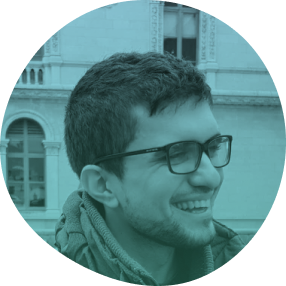
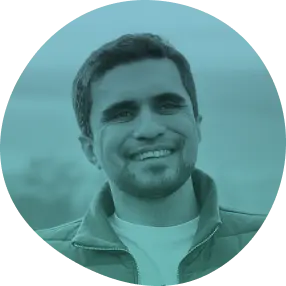
docs(nxdev): add 2022 nxconf speaker list

diff --git a/nx-dev/ui-conference/src/lib/conf-speakers.tsx b/nx-dev/ui-conference/src/lib/conf-speakers.tsx
@@ -18,17 +18,24 @@ export function ConfSpeakers(): JSX.Element {
     },
     {
       description:
-        "Colum Ferry is a Senior Software Engineer at Nrwl, working on the Angular Plugin for Nx. He's interested in architectural patterns with Angular and, more particularly, in achieving a Micro Frontend Architecture with Angular. Colum is a married father of two rambunctious kids and he's lately turned into a huge Formula 1 fan!",
-      imageUrl: '/images/conf/colum-ferry.webp',
-      name: 'Colum Ferry',
-      twitter: 'FerryColum',
+        'Lara is a Software Engineering technical Leader on the Customer Experience Angular team at Cisco. Most of Lara’s career has been spent working in the full stack as a Software Consultant and she enjoys sharing the knowledge and experience she has gained with others through talks, blogs, or pairing with teammates. When she is not coding or teaching, Lara enjoys trail running, fostering rescue kittens, and traveling with her family.',
+      imageUrl: '/images/conf/lara-newsom.webp',
+      name: 'Lara Newsom',
+      twitter: 'LaraNerdsom',
     },
     {
       description:
-        "Juri Strumpflohner lives in the very northern part of Italy and is currently working as a JavaScript Architect and Engineering Manager at Nrwl, where he consults for some of the world's biggest companies around the globe. Juri is a Google Developer Expert in Web Technologies & Angular, speaks at international conferences, teaches on Egghead.io. He's also a core member of Nx.",
-      imageUrl: '/images/conf/juri-strumpflohner.webp',
-      name: 'Juri Strumpflohner',
-      twitter: 'juristr',
+        'Santosh works as a Senior Software Engineer at Celonis and is a GDE for Angular, GitHub Star, and an Auth0 Ambassador, he loves contributing to Angular and its eco-system. He is co-founder of This is Learning. He is also the author of the Ngx-Builders package and part of NestJsAddOns core Team. He is also running This is Tech Talks talk show, where he invites industry experts to discuss different technologies.',
+      imageUrl: '/images/conf/santosh-yadav.webp',
+      name: 'Santosh Yadav',
+      twitter: 'SantoshYadavDev',
+    },
+    {
+      description:
+        'Jordan is a Developer Experience Engineer at Cypress. He is passionate about writing "good code" that is easy to read, test and maintain over time. He has over a decade of experience in software development, marketing, design, and video production. Jordan also serves as the CEO & Co-Founder for the non-profit Dream On: Global. When he is not working, he spends his time as a husband, father and Cleveland sports fan.',
+      imageUrl: '/images/conf/jordan-powell.webp',
+      name: 'Jordan Powell',
+      twitter: 'JordanPowell88',
     },
     {
       description:
@@ -38,39 +45,35 @@ export function ConfSpeakers(): JSX.Element {
       twitter: 'bencabanes',
     },
     {
-      description:
-        'Philip Fulcher is a senior engineer with Nrwl and an Nx core team member. He works with Fortune 500 clients to modernize their development practices with a monorepo approach. Philip lives in Colorado with his wife (who is much smarter than him) and two great kids.',
-      imageUrl: '/images/conf/philip-fulcher.webp',
-      name: 'Philip Fulcher',
-      twitter: 'PhilipJFulcher',
+      description: 'TBD',
+      imageUrl: '/images/conf/jack-hsu.webp',
+      name: 'Jack Hsu',
+      twitter: 'jay_soo',
+    },
+    {
+      description: 'TBD',
+      imageUrl: '/images/conf/altan-stalker.webp',
+      name: 'Altan Stalker',
+      twitter: 'altan',
+    },
+    {
+      description: 'TBD',
+      imageUrl: '/images/conf/jonathan-cammisuli.webp',
+      name: 'Jonathan Cammisuli',
+      twitter: 'jcammisuli',
     },
     {
       description:
-        'Jo Hanna is a senior software engineer, problem-solver and science groupie. She has a firm belief that people are always the most interesting component of any system, and a fascination with how we learn and why we often tend to guard too closely the information we acquire.',
-      imageUrl: '/images/conf/jo-hanna-pearce.webp',
-      name: 'Jo Hanna Pearce',
-      twitter: 'jhannapearce',
+        'Software engineer at Ionic working on the Cloud Team. Maintainer of the Ionic and Capacitor Nx plugins.',
+      imageUrl: '/images/conf/devin-shoemaker.webp',
+      name: 'Devin Shoemaker',
+      twitter: 'paranoidcoder',
     },
     {
-      description:
-        'Craigory is an engineer with Nrwl on the Nx core team. Before joining Nrwl, Craigory created the nx-dotnet plugin to integrate C# and .NET into Nx in monorepos alongside front end code.',
-      imageUrl: '/images/conf/craigory-coppola.webp',
-      name: 'Craigory Coppola',
-      twitter: 'enderagent',
-    },
-    {
-      description:
-        'Jason is an architect at Nrwl and a part of the Nx Core Team. He works with Fortune 500 companies across different industries to enable them to develop like Google, Microsoft, and Facebook. Jason is also an enthusiast of board games and mechanical keyboards.',
-      imageUrl: '/images/conf/jason-jeans.webp',
-      name: 'Jason Jean',
-      twitter: 'frozenpandaz',
-    },
-    {
-      description:
-        'Miro is an engineer at Nrwl.io and a member of the Nx Core team. He enjoys sharing with the community, speaking, contributing to open source, and organizing events. Miro is co-founder of Angular Austria and co-organizer of Angular Vienna and ViennaJS meetups.',
-      imageUrl: '/images/conf/miroslav-jonas.webp',
-      name: 'Miroslav Jonas',
-      twitter: 'meeroslav',
+      description: 'TBD',
+      imageUrl: '/images/conf/rares-matei.webp',
+      name: 'Rareş Matei',
+      twitter: '__rares',
     },
   ];
 

diff --git a/nx-dev/nx-dev/pages/conf.tsx b/nx-dev/nx-dev/pages/conf.tsx
@@ -3,6 +3,7 @@ import {
   ConfHealthAndSafety,
   ConfLocation,
   ConfScheduleShort,
+  ConfSpeakers,
   ConfWorkshop,
 } from '@nrwl/nx-dev/ui-conference';
 import { NextSeo } from 'next-seo';
@@ -324,14 +325,7 @@ export default function ConfPage(): JSX.Element {
               </h2>
             </div>
           </div>
-          <div className="border-t border-gray-600">
-            <div className="mx-auto max-w-screen-lg text-white xl:max-w-screen-xl">
-              <div className="p-8 text-center">
-                More information coming soon!
-              </div>
-            </div>
-          </div>
-          {/*<ConfSpeakers />*/}
+          <ConfSpeakers />
           {/*WORKSHOP*/}
           <div className="mx-auto max-w-screen-lg px-5 py-5 text-white xl:max-w-screen-xl">
             <div className="mt-24">
